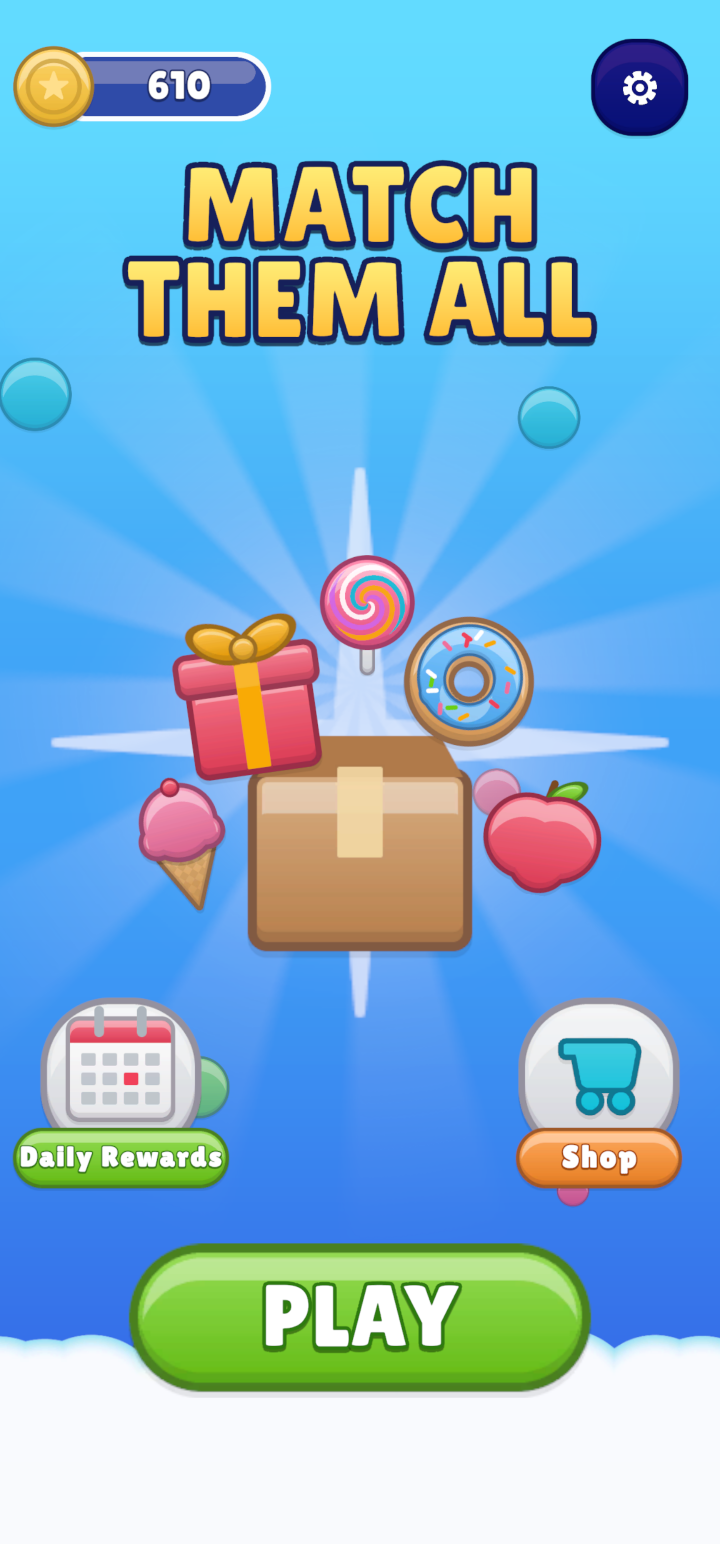
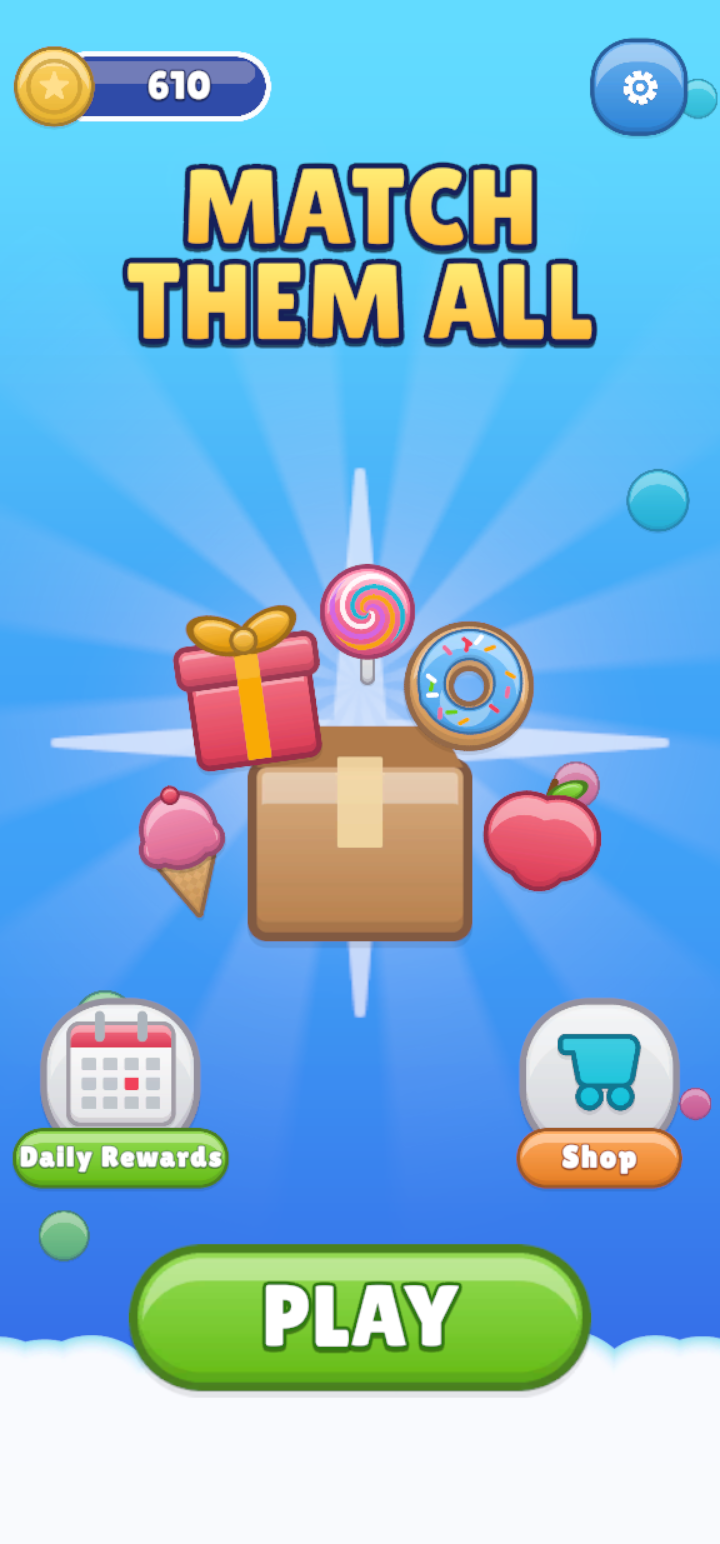
Fix Lobby settings button turning dark in Play mode
The SettingsButton's Color Tint "Normal Color" was dark purple. The
tint is only applied at runtime, so the button looked correct in the
Editor and dark navy in Play mode. Set it back to white; no other
button in the scenes or prefabs had the same problem.

Also refresh the user guide's Lobby screenshot and note the pitfall in
CLAUDE.md.

diff --git a/CLAUDE.md b/CLAUDE.md
@@ -158,6 +158,7 @@ These classes have the most edges in the graph. Changes here have wide ripple ef
 - Power-up VFX are generated (`Tools ▸ AssetGen ▸ Generate Powerup FX`) and the `Powerup_*.asset` / `FreezeOverlay` references point into them. Regenerating keeps the prefab GUIDs and internal IDs (checked), but use *Generate Powerup FX*, not *Generate VFX*, unless you also mean to rebuild `FX_MergeBurst`.
 - **No leftover objects after a model swap.** When replacing a model, delete the old model's empty children (e.g. `Cylinder.074` under the freeze blaster) unless something references them — and if a point is needed (gun tip), name it for its job (`Muzzle`). Grep for references before deleting.
 - **Layering: overlay UI always draws over 3D.** Anything full-screen that must sit *behind* some 3D objects (e.g. the freeze frost behind the ice spheres and tray) needs its own Screen Space - Camera canvas with a `planeDistance` between them (`FreezeOverlay`: 10.6). Animated tray props must move toward the camera (tray-local -Z) to clear the item spots (camera-local z 4) — see `FreezeEffect.shootLift`.
+- **Button Color Tint `Normal Color` must stay white.** The tint multiplies the Image only in Play mode, so a coloured Normal Color looks fine in the Editor and dark at runtime (Lobby `SettingsButton` was purple). Colour the sprite/Image, not the ColorBlock.
 - Don't use `??` / `?.` on `UnityEngine.Object`s (`GetComponent<T>() ?? AddComponent<T>()` never adds — Unity's fake null isn't C# null). Use `TryGetComponent`.
 - **Asset references belong on the prefab, scene references on the instance.** After `SaveAsPrefabAssetAndConnect`, references you set on the scene object are only instance overrides — new copies of the prefab come without them. Set asset references (other prefabs, sprites, VFX) on the prefab asset itself (`FreezeOverlay` once shipped with null ice-sphere/shatter refs this way); only scene objects (e.g. the HUD bar) stay as instance overrides.
 - **Repeated scene objects must be prefab instances.** When the same object goes into several places (e.g. one `Slot Background` per power-up spot), save it once as a prefab (`PrefabUtility.SaveAsPrefabAsset`) and place instances (`PrefabUtility.InstantiatePrefab`) — never `new GameObject` copies per place. Copies drift and must be edited one by one.
